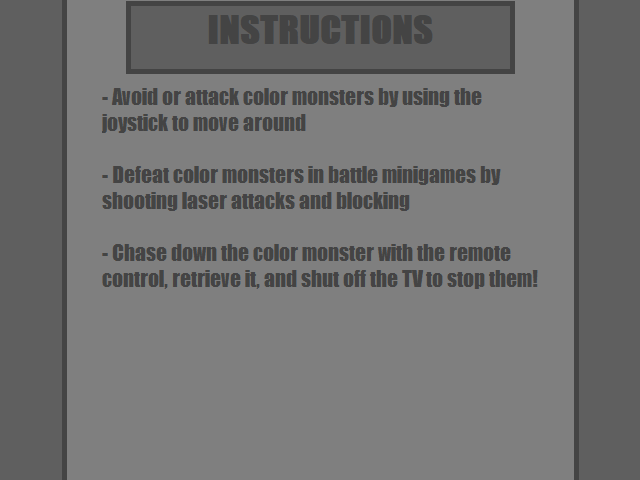
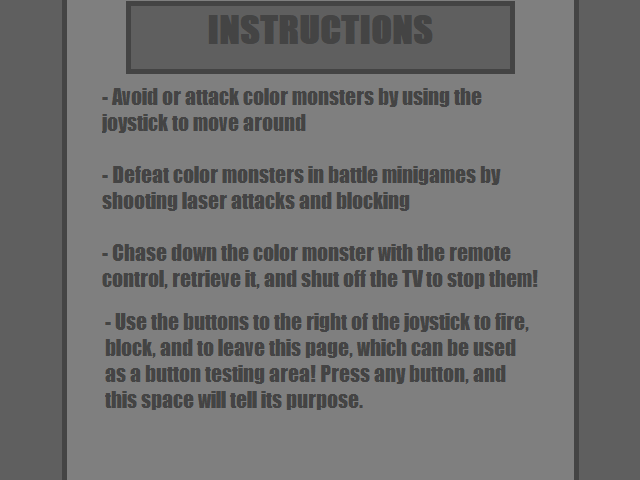
5/10/22

Changed region(s): [[0.1562, 0.6562, 0.8438, 0.875]]

diff --git a/battle_for_the_remote_control.py b/battle_for_the_remote_control.py
@@ -1,16 +1,26 @@
 import pygame, sys
 from pygame.locals import *
 pygame.init()
+
 SCREEN = pygame.display.set_mode((640, 480))
 CLOCK = pygame.time.Clock()
 FPS = 30
 MOVEMENT_SPEED = 5
 ARCADE_MODE = False
 MENU = pygame.image.load("Main Menu.png")
+INSTRUCTIONS = pygame.image.load("Instructions.png")
+SPACE_PURPOSE = pygame.image.load("instructions_button_purposes/purpose_space.png")
+RETURN_PURPOSE = pygame.image.load("instructions_button_purposes/purpose_return.png")
+UP_PURPOSE = pygame.image.load("instructions_button_purposes/purpose_up.png")
+DOWN_PURPOSE = pygame.image.load("instructions_button_purposes/purpose_down.png")
+LEFT_PURPOSE = pygame.image.load("instructions_button_purposes/purpose_left.png")
+RIGHT_PURPOSE = pygame.image.load("instructions_button_purposes/purpose_right.png")
+
 left_click = False
 mouse_x,mouse_y = 0,0
 mouse_speed = 5
 gamemode = "menu"
+background_reset = True
 
 class Player:
     pass
@@ -74,18 +84,9 @@ class Button:
         screen.blit(label_surface, (self.rect.x+x_offset, self.rect.y+y_offset))
     
     def mouse_over(self,mouse_x,mouse_y):
+        global gamemode
         if self.rect.collidepoint(mouse_x,mouse_y):
             self.button_color = self.button_profile.hover_color
-            if self.value == 0:
-                gamemode = "singleplayer"
-            elif self.value == 1:
-                gamemode = "multiplayer"
-            elif self.value == 2:
-                gamemode = "introduction"
-            elif self.value == 3:
-                gamemode = "credits"
-            elif self.value == 4:
-                gamemode = "instructions"
         else:
             self.button_color = self.button_profile.button_color
 
@@ -100,47 +101,80 @@ instructions = Button(240, 395, 162, 38, "Instructions", 4, profile_0)
 button_list = [singleplayer,multiplayer,introduction,credits_,instructions]
 
 while True:
-    SCREEN.blit(MENU,(0,0))
+    if gamemode == "menu": SCREEN.blit(MENU,(0,0))
+    elif gamemode == "singleplayer": pass
+    elif gamemode == "multiplayer": pass
+    elif gamemode == "introduction": pass
+    elif gamemode == "credits_" : pass
     #left_click = False
     P1C.clicked = False
     # EVENT HANDLER
-    check = pygame.key.get_pressed() # Press & Hold
-    if check[K_UP]:
-        P1C.y -= P1C.speed
-    elif check[K_DOWN]:
-        P1C.y += P1C.speed
-    if check[K_LEFT]:
-        P1C.x -= P1C.speed
-    elif check[K_RIGHT]:
-        P1C.x += P1C.speed
+    # quitting
     for event in pygame.event.get():
         if event.type == QUIT:
             pygame.quit()
             sys.exit()
-    #pressed = pygame.key.get_pressed()
-    #if ARCADE_MODE == False:
-    #  if pressed[K_w]:
-    #      # move back
-    #  if pressed[K_s]:
-    #      # move forward
-    #  if pressed[K_a]:
-    #      # move left
-    #  if pressed[K_d]:
-    #      # move right
-    #elif ARCADE_MODE == True:
-    #  if pressed[K_UP]:
-    #      # move back
-    #  if pressed[K_DOWN]:
-    #      # move forward
-    #  if pressed[K_LEFT]:
-    #      # move left
-    #  if pressed[K_RIGHT]:
-    #      # move right
-    for each_button in button_list:
-        each_button.draw(SCREEN)
-        if each_button.button_color == profile_0.hover_color and left_click == True:
-            value = each_button.value
-            print("button clicked!", value)
-    P1C.draw(SCREEN)
+        if event.type == KEYDOWN:
+            if ARCADE_MODE == False:
+                if gamemode == "menu":
+                    if event.key == K_SPACE:
+                        if singleplayer.rect.collidepoint(P1C.x,P1C.y):
+                            gamemode = "singleplayer"
+                        elif multiplayer.rect.collidepoint(P1C.x,P1C.y):
+                            gamemode = "multiplayer"
+                        elif introduction.rect.collidepoint(P1C.x,P1C.y):
+                            gamemode = "introduction"
+                        elif credits_.rect.collidepoint(P1C.x,P1C.y):
+                            gamemode = "credits"
+                        elif instructions.rect.collidepoint(P1C.x,P1C.y):
+                            gamemode = "instructions"
+                else:
+                    if event.key == K_ESCAPE:
+                        gamemode = "menu"
+                if gamemode == "instructions":
+                    SCREEN.blit(INSTRUCTIONS,(0,0))
+                    if event.key == K_SPACE: SCREEN.blit(SPACE_PURPOSE,(50,50))
+                    if event.key == K_RETURN: SCREEN.blit(RETURN_PURPOSE,(50,50))
+                    if event.key == K_UP: SCREEN.blit(UP_PURPOSE,(50,50))
+                    if event.key == K_DOWN: SCREEN.blit(DOWN_PURPOSE,(50,50))
+                    if event.key == K_LEFT: SCREEN.blit(LEFT_PURPOSE,(50,50))
+                    if event.key == K_RIGHT: SCREEN.blit(RIGHT_PURPOSE,(50,50))
+
+    check = pygame.key.get_pressed() # Press & Hold
+    if ARCADE_MODE == False:
+        if gamemode == "menu":
+            if check[K_UP]:
+                P1C.y -= P1C.speed
+            elif check[K_DOWN]:
+                P1C.y += P1C.speed
+            if check[K_LEFT]:
+                P1C.x -= P1C.speed
+            elif check[K_RIGHT]:
+                P1C.x += P1C.speed
+        elif gamemode == "singleplayer" or "multiplayer":
+            if check[K_w]:
+                pass
+            if check[K_s]:
+                pass
+            if check[K_a]:
+                pass
+            if check[K_d]:
+                pass
+    elif ARCADE_MODE == True:
+        if check[K_UP]:
+            pass
+        if check[K_DOWN]:
+            pass
+        if check[K_LEFT]:
+            pass
+        if check[K_RIGHT]:
+            pass
+    if gamemode == "menu":
+        for each_button in button_list:
+            each_button.draw(SCREEN)
+            if each_button.button_color == profile_0.hover_color and left_click == True:
+                value = each_button.value
+                print("button clicked!", value)
+        P1C.draw(SCREEN)
     pygame.display.update()
     CLOCK.tick(FPS)
